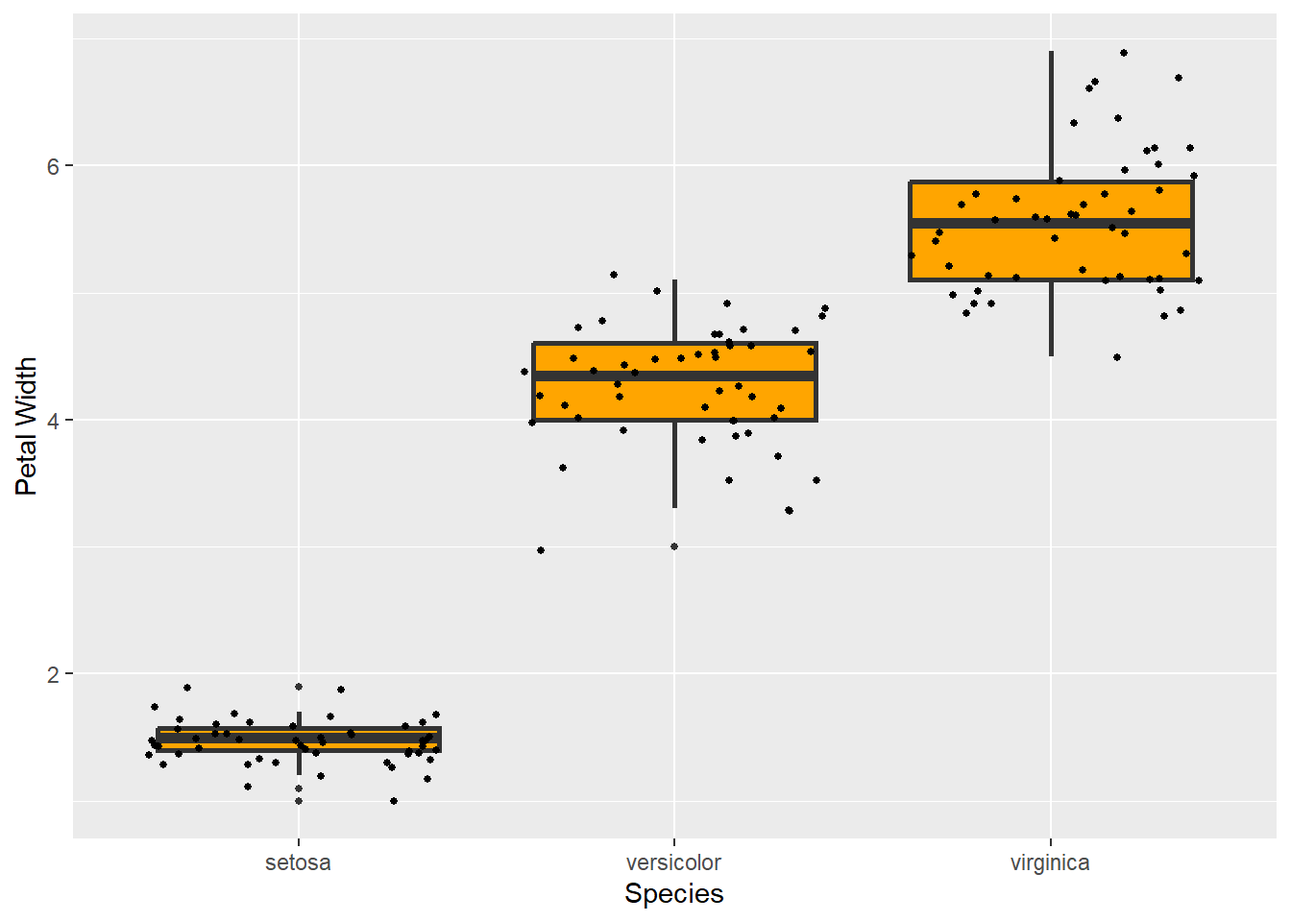
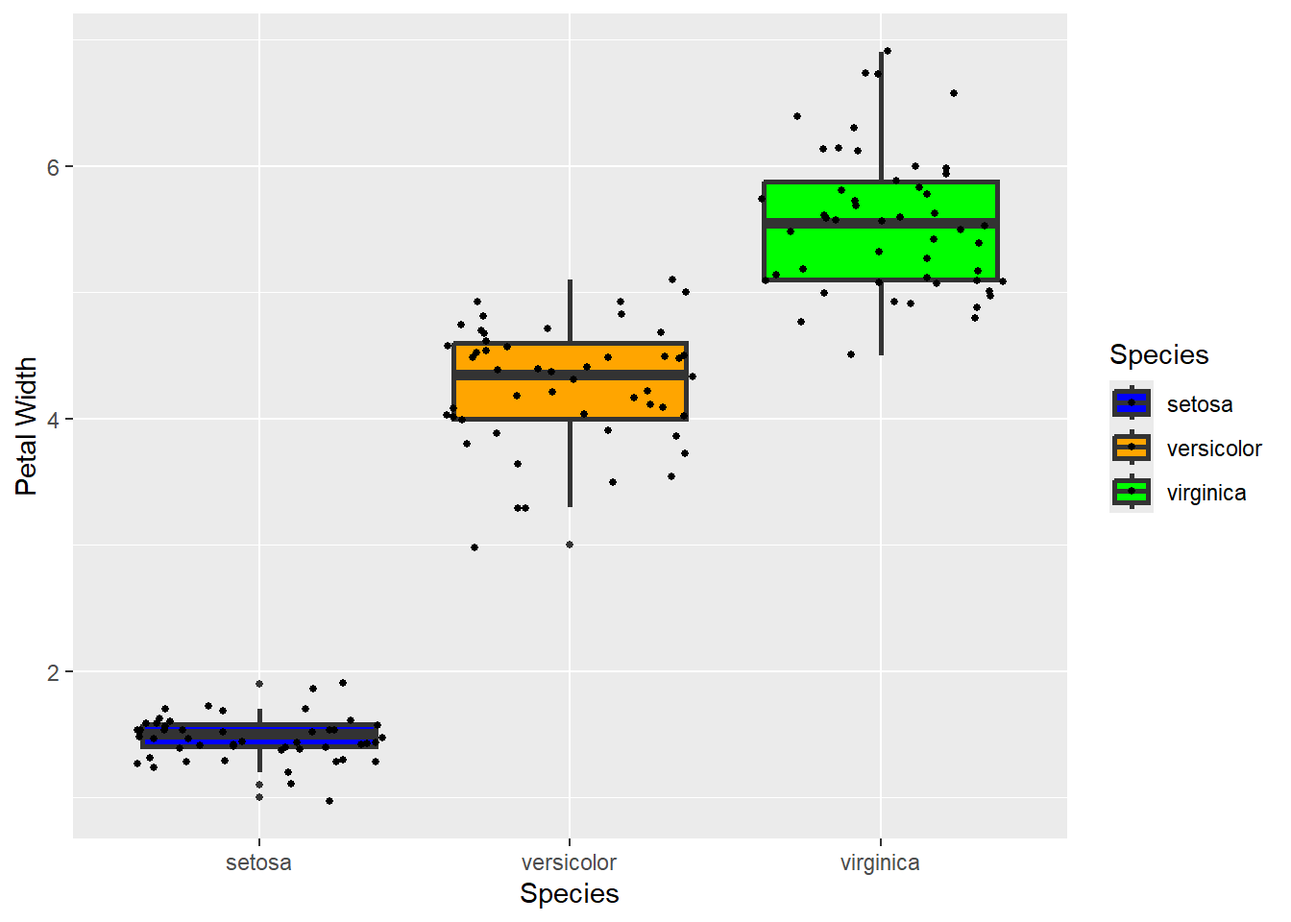
updates

diff --git a/docs/Homework_13.html b/docs/Homework_13.html
@@ -150,20 +150,9 @@ pre > code.sourceCode > span > a:first-child::before { text-decoration: underlin
    
   <ul>
   <li><a href="#bryan-wilcenski" id="toc-bryan-wilcenski" class="nav-link active" data-scroll-target="#bryan-wilcenski">Bryan Wilcenski</a></li>
-  <li><a href="#section" id="toc-section" class="nav-link" data-scroll-target="#section">4/15/2026</a>
-  <ul class="collapse">
-  <li><a href="#question-1does-any-pair-of-predictors-have-combined-effects-on-damage-likelihood-that-are-greater-than-their-individual-effects" id="toc-question-1does-any-pair-of-predictors-have-combined-effects-on-damage-likelihood-that-are-greater-than-their-individual-effects" class="nav-link" data-scroll-target="#question-1does-any-pair-of-predictors-have-combined-effects-on-damage-likelihood-that-are-greater-than-their-individual-effects">Question 1:Does any pair of predictors have combined effects on damage likelihood that are greater than their individual effects?</a></li>
-  </ul></li>
-  <li><a href="#note-this-question-and-approach-was-recommended-by-professor-burnham-after-discussing-my-challenges-with-developing-predictor-variables.-if-there-are-predictor-pairs-that-act-together-and-have-a-combined-effect-on-damage-probabilities-then-it-would-be-possible-to-use-feature-engineering-to-add-to-my-random-forest-or-catboost-models-to-better-account-for-variance.-use-of-a-llm-for-coding-assistance-was-also-recommended-given-the-number-of-possible-pairs-66." id="toc-note-this-question-and-approach-was-recommended-by-professor-burnham-after-discussing-my-challenges-with-developing-predictor-variables.-if-there-are-predictor-pairs-that-act-together-and-have-a-combined-effect-on-damage-probabilities-then-it-would-be-possible-to-use-feature-engineering-to-add-to-my-random-forest-or-catboost-models-to-better-account-for-variance.-use-of-a-llm-for-coding-assistance-was-also-recommended-given-the-number-of-possible-pairs-66." class="nav-link" data-scroll-target="#note-this-question-and-approach-was-recommended-by-professor-burnham-after-discussing-my-challenges-with-developing-predictor-variables.-if-there-are-predictor-pairs-that-act-together-and-have-a-combined-effect-on-damage-probabilities-then-it-would-be-possible-to-use-feature-engineering-to-add-to-my-random-forest-or-catboost-models-to-better-account-for-variance.-use-of-a-llm-for-coding-assistance-was-also-recommended-given-the-number-of-possible-pairs-66.">Note: This question and approach was recommended by Professor Burnham after discussing my challenges with developing predictor variables. If there are predictor pairs that act together and have a combined effect on damage probabilities, then it would be possible to use feature engineering to add to my random forest (or Catboost models) to better account for variance. Use of a LLM for coding assistance was also recommended given the number of possible pairs (66).</a></li>
-  <li><a href="#aic-was-used-to-compare-the-effects-of-all-interaction-terms-against-the-base-model-with-all-individual-predictors-but-no-interaction-terms-because-the-large-sample-size-resulted-in-almost-all-interactions-having-a-significant-p-value.-a-lower-aic-means-that-the-model-is-better-at-predicting-damages." id="toc-aic-was-used-to-compare-the-effects-of-all-interaction-terms-against-the-base-model-with-all-individual-predictors-but-no-interaction-terms-because-the-large-sample-size-resulted-in-almost-all-interactions-having-a-significant-p-value.-a-lower-aic-means-that-the-model-is-better-at-predicting-damages." class="nav-link" data-scroll-target="#aic-was-used-to-compare-the-effects-of-all-interaction-terms-against-the-base-model-with-all-individual-predictors-but-no-interaction-terms-because-the-large-sample-size-resulted-in-almost-all-interactions-having-a-significant-p-value.-a-lower-aic-means-that-the-model-is-better-at-predicting-damages.">AIC was used to compare the effects of all interaction terms against the base model with all individual predictors (but no interaction terms) because the large sample size resulted in almost all interactions having a significant p-value. A lower AIC means that the model is better at predicting damages.</a></li>
-  <li><a href="#according-to-burnham-and-anderson-2004" id="toc-according-to-burnham-and-anderson-2004" class="nav-link" data-scroll-target="#according-to-burnham-and-anderson-2004">According to Burnham and Anderson (2004):</a></li>
-  <li><a href="#some-simple-rules-of-thumb-are-often-useful-in-assessing-the-relative-merits-of-models-in-the-set-models-having-delta-i-2-have-substantial-support-evidence-those-in-which-4-delta-i-7-have-considerably-less-support-and-models-having-delta-i-10-have-essentailly-no-support." id="toc-some-simple-rules-of-thumb-are-often-useful-in-assessing-the-relative-merits-of-models-in-the-set-models-having-delta-i-2-have-substantial-support-evidence-those-in-which-4-delta-i-7-have-considerably-less-support-and-models-having-delta-i-10-have-essentailly-no-support." class="nav-link" data-scroll-target="#some-simple-rules-of-thumb-are-often-useful-in-assessing-the-relative-merits-of-models-in-the-set-models-having-delta-i-2-have-substantial-support-evidence-those-in-which-4-delta-i-7-have-considerably-less-support-and-models-having-delta-i-10-have-essentailly-no-support.">“Some simple rules of thumb are often useful in assessing the relative merits of models in the set: Models having [Delta] i ≤ 2 have substantial support (evidence), those in which 4 ≤ [Delta] i ≤ 7 have considerably less support, and models having [Delta] i &gt; 10 have essentailly no support”.</a></li>
-  <li><a href="#in-my-data-the-aic_improvement-calculation-uses-the-difference-between-the-base-model-aic-and-the-interaction-term-and-thus-a-higher-aic-improvement-means-that-the-interaction-term-improves-the-model." id="toc-in-my-data-the-aic_improvement-calculation-uses-the-difference-between-the-base-model-aic-and-the-interaction-term-and-thus-a-higher-aic-improvement-means-that-the-interaction-term-improves-the-model." class="nav-link" data-scroll-target="#in-my-data-the-aic_improvement-calculation-uses-the-difference-between-the-base-model-aic-and-the-interaction-term-and-thus-a-higher-aic-improvement-means-that-the-interaction-term-improves-the-model.">In my data, the AIC_Improvement calculation uses the difference between the base model AIC and the interaction term, and thus a higher AIC improvement means that the interaction term improves the model.</a></li>
-  <li><a href="#the-greatest-improvement-was-seen-when-there-was-a-k_finalhydrogroup-term-used-in-the-glm.-while-the-anova-result-shows-that-k_final-is-not-significant-on-its-own-lr-chisq-0.11-it-is-significant-depending-on-the-hydrogroup-it-is-in-lr-chisq-113.18.-while-other-predictors-are-powerful-on-their-own-e.g.-mean-precipitation-mean_topoconvergence_50m-topographic-convergence-etc.-this-finding-highlights-a-new-relationship.-the-boxplot-further-demonstrates-this-relationship-showing-that-on-on-poorly-drained-hydrogroup-soils-c-cd-a-higher-k_factor-is-associated-with-more-damage.-this-relationship-makes-sensestanding-water-accumulates-on-the-surface-resulting-in-roads-on-soils-vulnerable-to-sheet-flow-high-k_factor-experiencing-more-damages." id="toc-the-greatest-improvement-was-seen-when-there-was-a-k_finalhydrogroup-term-used-in-the-glm.-while-the-anova-result-shows-that-k_final-is-not-significant-on-its-own-lr-chisq-0.11-it-is-significant-depending-on-the-hydrogroup-it-is-in-lr-chisq-113.18.-while-other-predictors-are-powerful-on-their-own-e.g.-mean-precipitation-mean_topoconvergence_50m-topographic-convergence-etc.-this-finding-highlights-a-new-relationship.-the-boxplot-further-demonstrates-this-relationship-showing-that-on-on-poorly-drained-hydrogroup-soils-c-cd-a-higher-k_factor-is-associated-with-more-damage.-this-relationship-makes-sensestanding-water-accumulates-on-the-surface-resulting-in-roads-on-soils-vulnerable-to-sheet-flow-high-k_factor-experiencing-more-damages." class="nav-link" data-scroll-target="#the-greatest-improvement-was-seen-when-there-was-a-k_finalhydrogroup-term-used-in-the-glm.-while-the-anova-result-shows-that-k_final-is-not-significant-on-its-own-lr-chisq-0.11-it-is-significant-depending-on-the-hydrogroup-it-is-in-lr-chisq-113.18.-while-other-predictors-are-powerful-on-their-own-e.g.-mean-precipitation-mean_topoconvergence_50m-topographic-convergence-etc.-this-finding-highlights-a-new-relationship.-the-boxplot-further-demonstrates-this-relationship-showing-that-on-on-poorly-drained-hydrogroup-soils-c-cd-a-higher-k_factor-is-associated-with-more-damage.-this-relationship-makes-sensestanding-water-accumulates-on-the-surface-resulting-in-roads-on-soils-vulnerable-to-sheet-flow-high-k_factor-experiencing-more-damages.">The greatest improvement was seen when there was a K_final:HYDROGROUP term used in the GLM. While the ANOVA result shows that K_final is not significant on its own (LR Chisq = 0.11), it is significant depending on the HYDROGROUP it is in (LR Chisq = 113.18). While other predictors are powerful on their own, (e.g.&nbsp;MEAN (precipitation), Mean_TopoConvergence_50m (Topographic Convergence), etc.), this finding highlights a new relationship. The boxplot further demonstrates this relationship, showing that on on poorly-drained HYDROGROUP soils (C, C/D) a higher K_factor is associated with more damage. This relationship makes sense–standing water accumulates on the surface, resulting in roads on soils vulnerable to sheet flow (high K_factor) experiencing more damages.</a>
-  <ul class="collapse">
+  <li><a href="#section" id="toc-section" class="nav-link" data-scroll-target="#section">4/15/2026</a></li>
+  <li><a href="#question-1-does-any-pair-of-predictors-have-a-combined-effect-on-damage-likelihood-that-is-greater-than-their-individual-effects" id="toc-question-1-does-any-pair-of-predictors-have-a-combined-effect-on-damage-likelihood-that-is-greater-than-their-individual-effects" class="nav-link" data-scroll-target="#question-1-does-any-pair-of-predictors-have-a-combined-effect-on-damage-likelihood-that-is-greater-than-their-individual-effects">Question 1: Does any pair of predictors have a combined effect on damage likelihood that is greater than their individual effects?</a></li>
   <li><a href="#question-2-does-the-effect-of-precipitation-on-damage-probability-vary-across-parent-material-types" id="toc-question-2-does-the-effect-of-precipitation-on-damage-probability-vary-across-parent-material-types" class="nav-link" data-scroll-target="#question-2-does-the-effect-of-precipitation-on-damage-probability-vary-across-parent-material-types">Question 2: Does the effect of precipitation on damage probability vary across parent material types?</a></li>
-  </ul></li>
-  <li><a href="#this-is-a-binomial-glmm-with-random-effects-for-precipitation-by-parent-material-intended-to-determine-if-a-given-amount-of-precipitation-on-one-soil-parent-type-causes-a-different-probability-of-damages-on-another-soil-type.-while-some-soil-parent-materials-that-affect-the-probability-of-damage-notably-erosive-parent-materials-like-gf-and-a-the-overall-changes-are-small-variance-0.007-compared-to-the-the-average-effect-of-precipitation-mean-across-all-soils-estimate-0.369.-this-indicates-that-precipitations-effect-on-damage-probabilities-do-not-differ-significantly-across-parent-materials." id="toc-this-is-a-binomial-glmm-with-random-effects-for-precipitation-by-parent-material-intended-to-determine-if-a-given-amount-of-precipitation-on-one-soil-parent-type-causes-a-different-probability-of-damages-on-another-soil-type.-while-some-soil-parent-materials-that-affect-the-probability-of-damage-notably-erosive-parent-materials-like-gf-and-a-the-overall-changes-are-small-variance-0.007-compared-to-the-the-average-effect-of-precipitation-mean-across-all-soils-estimate-0.369.-this-indicates-that-precipitations-effect-on-damage-probabilities-do-not-differ-significantly-across-parent-materials." class="nav-link" data-scroll-target="#this-is-a-binomial-glmm-with-random-effects-for-precipitation-by-parent-material-intended-to-determine-if-a-given-amount-of-precipitation-on-one-soil-parent-type-causes-a-different-probability-of-damages-on-another-soil-type.-while-some-soil-parent-materials-that-affect-the-probability-of-damage-notably-erosive-parent-materials-like-gf-and-a-the-overall-changes-are-small-variance-0.007-compared-to-the-the-average-effect-of-precipitation-mean-across-all-soils-estimate-0.369.-this-indicates-that-precipitations-effect-on-damage-probabilities-do-not-differ-significantly-across-parent-materials.">This is a binomial GLMM with random effects for precipitation by parent material intended to determine if a given amount of precipitation on one soil parent type causes a different probability of damages on another soil type. While some soil parent materials that affect the probability of damage (notably: erosive parent materials like GF and A), the overall changes are small (Variance= 0.007) compared to the the average effect of precipitation (MEAN) across all soils (Estimate = 0.369). This indicates that precipitation’s effect on damage probabilities do not differ significantly across parent materials.</a></li>
   </ul>
 </nav>
     </div>
@@ -194,12 +183,10 @@ pre > code.sourceCode > span > a:first-child::before { text-decoration: underlin
 </section>
 <section id="section" class="level1">
 <h1>4/15/2026</h1>
-<section id="question-1does-any-pair-of-predictors-have-combined-effects-on-damage-likelihood-that-are-greater-than-their-individual-effects" class="level2">
-<h2 class="anchored" data-anchor-id="question-1does-any-pair-of-predictors-have-combined-effects-on-damage-likelihood-that-are-greater-than-their-individual-effects">Question 1:Does any pair of predictors have combined effects on damage likelihood that are greater than their individual effects?</h2>
 </section>
-</section>
-<section id="note-this-question-and-approach-was-recommended-by-professor-burnham-after-discussing-my-challenges-with-developing-predictor-variables.-if-there-are-predictor-pairs-that-act-together-and-have-a-combined-effect-on-damage-probabilities-then-it-would-be-possible-to-use-feature-engineering-to-add-to-my-random-forest-or-catboost-models-to-better-account-for-variance.-use-of-a-llm-for-coding-assistance-was-also-recommended-given-the-number-of-possible-pairs-66." class="level1">
-<h1>Note: This question and approach was recommended by Professor Burnham after discussing my challenges with developing predictor variables. If there are predictor pairs that act together and have a combined effect on damage probabilities, then it would be possible to use feature engineering to add to my random forest (or Catboost models) to better account for variance. Use of a LLM for coding assistance was also recommended given the number of possible pairs (66).</h1>
+<section id="question-1-does-any-pair-of-predictors-have-a-combined-effect-on-damage-likelihood-that-is-greater-than-their-individual-effects" class="level1">
+<h1>Question 1: Does any pair of predictors have a combined effect on damage likelihood that is greater than their individual effects?</h1>
+<p>Note: This question and approach was recommended by Professor Burnham after discussing my challenges with developing predictor variables. If there are predictor pairs that act together and have a combined effect on damage probabilities, then it would be possible to use feature engineering to add to my random forest (or Catboost models) to better account for variance. Use of a LLM for coding assistance was also recommended given the number of possible pairs (66).</p>
 <div class="cell">
 <div class="code-copy-outer-scaffold"><div class="sourceCode cell-code" id="cb1"><pre class="sourceCode r code-with-copy"><code class="sourceCode r"><span id="cb1-1"><a href="#cb1-1" aria-hidden="true" tabindex="-1"></a><span class="fu">library</span>(tidyverse)</span></code></pre></div><button title="Copy to Clipboard" class="code-copy-button"><i class="bi"></i></button></div>
 <div class="cell-output cell-output-stderr">
@@ -600,23 +587,13 @@ Signif. codes:  0 '***' 0.001 '**' 0.01 '*' 0.05 '.' 0.1 ' ' 1</code></pre>
 </div>
 </div>
 </div>
+<p>AIC was used to compare the effects of all interaction terms against the base model with all individual predictors (but no interaction terms) because the large sample size resulted in almost all interactions having a significant p-value. A lower AIC means that the model is better at predicting damages.</p>
+<p>According to Burnham and Anderson (2004): “Some simple rules of thumb are often useful in assessing the relative merits of models in the set: Models having [Delta AIC] ≤ 2 have substantial support (evidence), those in which 4 ≤ [Delta AIC] ≤ 7 have considerably less support, and models having [Delta AIC] &gt; 10 have essentailly no support”.</p>
+<p>In my data, the AIC_Improvement calculation uses the difference between the base model AIC and the interaction term, and thus a higher AIC improvement means that the interaction term improves the model.</p>
+<p>The greatest improvement was seen when there was a K_final:HYDROGROUP term used in the GLM. While the ANOVA result shows that K_final is not significant on its own (LR Chisq = 0.11), it is significant depending on the HYDROGROUP it is in (LR Chisq = 113.18). While other predictors are powerful on their own, (e.g.&nbsp;MEAN (precipitation), Mean_TopoConvergence_50m (Topographic Convergence), etc.), this finding highlights a new relationship. The boxplot further demonstrates this relationship, showing that on on poorly-drained HYDROGROUP soils (C, C/D) a higher K_factor is associated with more damage. This relationship makes sense–standing water accumulates on the surface, resulting in roads on soils vulnerable to sheet flow (high K_factor) experiencing more damages.</p>
 </section>
-<section id="aic-was-used-to-compare-the-effects-of-all-interaction-terms-against-the-base-model-with-all-individual-predictors-but-no-interaction-terms-because-the-large-sample-size-resulted-in-almost-all-interactions-having-a-significant-p-value.-a-lower-aic-means-that-the-model-is-better-at-predicting-damages." class="level1">
-<h1>AIC was used to compare the effects of all interaction terms against the base model with all individual predictors (but no interaction terms) because the large sample size resulted in almost all interactions having a significant p-value. A lower AIC means that the model is better at predicting damages.</h1>
-</section>
-<section id="according-to-burnham-and-anderson-2004" class="level1">
-<h1>According to Burnham and Anderson (2004):</h1>
-</section>
-<section id="some-simple-rules-of-thumb-are-often-useful-in-assessing-the-relative-merits-of-models-in-the-set-models-having-delta-i-2-have-substantial-support-evidence-those-in-which-4-delta-i-7-have-considerably-less-support-and-models-having-delta-i-10-have-essentailly-no-support." class="level1">
-<h1>“Some simple rules of thumb are often useful in assessing the relative merits of models in the set: Models having [Delta] i ≤ 2 have substantial support (evidence), those in which 4 ≤ [Delta] i ≤ 7 have considerably less support, and models having [Delta] i &gt; 10 have essentailly no support”.</h1>
-</section>
-<section id="in-my-data-the-aic_improvement-calculation-uses-the-difference-between-the-base-model-aic-and-the-interaction-term-and-thus-a-higher-aic-improvement-means-that-the-interaction-term-improves-the-model." class="level1">
-<h1>In my data, the AIC_Improvement calculation uses the difference between the base model AIC and the interaction term, and thus a higher AIC improvement means that the interaction term improves the model.</h1>
-</section>
-<section id="the-greatest-improvement-was-seen-when-there-was-a-k_finalhydrogroup-term-used-in-the-glm.-while-the-anova-result-shows-that-k_final-is-not-significant-on-its-own-lr-chisq-0.11-it-is-significant-depending-on-the-hydrogroup-it-is-in-lr-chisq-113.18.-while-other-predictors-are-powerful-on-their-own-e.g.-mean-precipitation-mean_topoconvergence_50m-topographic-convergence-etc.-this-finding-highlights-a-new-relationship.-the-boxplot-further-demonstrates-this-relationship-showing-that-on-on-poorly-drained-hydrogroup-soils-c-cd-a-higher-k_factor-is-associated-with-more-damage.-this-relationship-makes-sensestanding-water-accumulates-on-the-surface-resulting-in-roads-on-soils-vulnerable-to-sheet-flow-high-k_factor-experiencing-more-damages." class="level1">
-<h1>The greatest improvement was seen when there was a K_final:HYDROGROUP term used in the GLM. While the ANOVA result shows that K_final is not significant on its own (LR Chisq = 0.11), it is significant depending on the HYDROGROUP it is in (LR Chisq = 113.18). While other predictors are powerful on their own, (e.g.&nbsp;MEAN (precipitation), Mean_TopoConvergence_50m (Topographic Convergence), etc.), this finding highlights a new relationship. The boxplot further demonstrates this relationship, showing that on on poorly-drained HYDROGROUP soils (C, C/D) a higher K_factor is associated with more damage. This relationship makes sense–standing water accumulates on the surface, resulting in roads on soils vulnerable to sheet flow (high K_factor) experiencing more damages.</h1>
-<section id="question-2-does-the-effect-of-precipitation-on-damage-probability-vary-across-parent-material-types" class="level2">
-<h2 class="anchored" data-anchor-id="question-2-does-the-effect-of-precipitation-on-damage-probability-vary-across-parent-material-types">Question 2: Does the effect of precipitation on damage probability vary across parent material types?</h2>
+<section id="question-2-does-the-effect-of-precipitation-on-damage-probability-vary-across-parent-material-types" class="level1">
+<h1>Question 2: Does the effect of precipitation on damage probability vary across parent material types?</h1>
 <div class="cell">
 <div class="code-copy-outer-scaffold"><div class="sourceCode cell-code" id="cb25"><pre class="sourceCode r code-with-copy"><code class="sourceCode r"><span id="cb25-1"><a href="#cb25-1" aria-hidden="true" tabindex="-1"></a><span class="co"># Mixed model — random intercept and random slope for MEAN by PARENT</span></span>
 <span id="cb25-2"><a href="#cb25-2" aria-hidden="true" tabindex="-1"></a>mixed_model <span class="ot">&lt;-</span> <span class="fu">glmer</span>(</span>
@@ -643,36 +620,36 @@ Formula: damaged_bin ~ MEAN + MeanSlope30m + Mean_TopoConvergence_50m +
 
 Scaled residuals: 
    Min     1Q Median     3Q    Max 
--6.289 -0.088 -0.059 -0.039 48.982 
+-6.289 -0.088 -0.059 -0.039 48.985 
 
 Random effects:
  Groups Name        Variance Std.Dev. Corr
- PARENT (Intercept) 0.174073 0.41722      
-        MEAN        0.007336 0.08565  0.15
+ PARENT (Intercept) 0.174510 0.41774      
+        MEAN        0.007298 0.08543  0.15
 Number of obs: 215899, groups:  PARENT, 19
 
 Fixed effects:
                            Estimate Std. Error z value Pr(&gt;|z|)    
-(Intercept)              -12.589448   0.333966 -37.697  &lt; 2e-16 ***
-MEAN                       0.368997   0.037983   9.715  &lt; 2e-16 ***
-MeanSlope30m               0.103547   0.007308  14.169  &lt; 2e-16 ***
-Mean_TopoConvergence_50m   0.621363   0.033343  18.636  &lt; 2e-16 ***
-HYDROGROUPA/D             -1.079755   0.377110  -2.863 0.004193 ** 
-HYDROGROUPB                0.391747   0.125060   3.132 0.001733 ** 
-HYDROGROUPB/D             -0.473648   0.199867  -2.370 0.017797 *  
-HYDROGROUPC               -0.446423   0.135518  -3.294 0.000987 ***
-HYDROGROUPC/D             -0.846741   0.157698  -5.369 7.90e-08 ***
-HYDROGROUPD               -1.086660   0.157776  -6.887 5.68e-12 ***
-HYDROGROUPnot rated        0.800604   0.256544   3.121 0.001804 ** 
-HYDROGROUPUnknown        -10.218584 247.914451  -0.041 0.967122    
-HYDROGROUPwater           -0.495123   1.246738  -0.397 0.691268    
-PercentForestedLand        0.371552   0.090615   4.100 4.13e-05 ***
-Avg_Slope                  0.022570   0.006280   3.594 0.000326 ***
-K_final                    0.040633   0.246314   0.165 0.868972    
-Culvert_Count              0.372412   0.028030  13.286  &lt; 2e-16 ***
-StreamCrosYes              0.663681   0.068679   9.663  &lt; 2e-16 ***
-SurfaceUnknown            -0.521877   0.233890  -2.231 0.025662 *  
-SurfaceUnpaved             0.155582   0.069440   2.241 0.025057 *  
+(Intercept)              -12.590166   0.333995 -37.696  &lt; 2e-16 ***
+MEAN                       0.369228   0.037917   9.738  &lt; 2e-16 ***
+MeanSlope30m               0.103531   0.007308  14.167  &lt; 2e-16 ***
+Mean_TopoConvergence_50m   0.621343   0.033343  18.635  &lt; 2e-16 ***
+HYDROGROUPA/D             -1.079024   0.376997  -2.862 0.004208 ** 
+HYDROGROUPB                0.391458   0.125065   3.130 0.001748 ** 
+HYDROGROUPB/D             -0.473347   0.199860  -2.368 0.017865 *  
+HYDROGROUPC               -0.446534   0.135522  -3.295 0.000984 ***
+HYDROGROUPC/D             -0.846765   0.157702  -5.369 7.90e-08 ***
+HYDROGROUPD               -1.086776   0.157782  -6.888 5.66e-12 ***
+HYDROGROUPnot rated        0.800836   0.256535   3.122 0.001798 ** 
+HYDROGROUPUnknown        -10.028181 225.461709  -0.044 0.964523    
+HYDROGROUPwater           -0.496091   1.247132  -0.398 0.690789    
+PercentForestedLand        0.371671   0.090614   4.102 4.10e-05 ***
+Avg_Slope                  0.022568   0.006280   3.593 0.000326 ***
+K_final                    0.040204   0.246311   0.163 0.870342    
+Culvert_Count              0.372389   0.028030  13.285  &lt; 2e-16 ***
+StreamCrosYes              0.663678   0.068680   9.663  &lt; 2e-16 ***
+SurfaceUnknown            -0.521462   0.233850  -2.230 0.025754 *  
+SurfaceUnpaved             0.155641   0.069441   2.241 0.025005 *  
 ---
 Signif. codes:  0 '***' 0.001 '**' 0.01 '*' 0.05 '.' 0.1 ' ' 1</code></pre>
 </div>
@@ -688,16 +665,16 @@ Use print(x, correlation=TRUE)  or
 
 Response: damaged_bin
                             Chisq Df Pr(&gt;Chisq)    
-MEAN                      94.3766  1  &lt; 2.2e-16 ***
-MeanSlope30m             200.7709  1  &lt; 2.2e-16 ***
-Mean_TopoConvergence_50m 347.2827  1  &lt; 2.2e-16 ***
-HYDROGROUP               188.8972  9  &lt; 2.2e-16 ***
-PercentForestedLand       16.8129  1  4.125e-05 ***
-Avg_Slope                 12.9162  1  0.0003258 ***
-K_final                    0.0272  1  0.8689722    
-Culvert_Count            176.5246  1  &lt; 2.2e-16 ***
-StreamCros                93.3829  1  &lt; 2.2e-16 ***
-Surface                   12.9606  2  0.0015333 ** 
+MEAN                      94.8245  1  &lt; 2.2e-16 ***
+MeanSlope30m             200.6962  1  &lt; 2.2e-16 ***
+Mean_TopoConvergence_50m 347.2599  1  &lt; 2.2e-16 ***
+HYDROGROUP               188.8334  9  &lt; 2.2e-16 ***
+PercentForestedLand       16.8239  1  4.101e-05 ***
+Avg_Slope                 12.9128  1  0.0003263 ***
+K_final                    0.0266  1  0.8703418    
+Culvert_Count            176.4963  1  &lt; 2.2e-16 ***
+StreamCros                93.3814  1  &lt; 2.2e-16 ***
+Surface                   12.9581  2  0.0015353 ** 
 ---
 Signif. codes:  0 '***' 0.001 '**' 0.01 '*' 0.05 '.' 0.1 ' ' 1</code></pre>
 </div>
@@ -706,25 +683,25 @@ Signif. codes:  0 '***' 0.001 '**' 0.01 '*' 0.05 '.' 0.1 ' ' 1</code></pre>
 <span id="cb30-3"><a href="#cb30-3" aria-hidden="true" tabindex="-1"></a>re</span></code></pre></div><button title="Copy to Clipboard" class="code-copy-button"><i class="bi"></i></button></div>
 <div class="cell-output cell-output-stdout">
 <pre><code>           (Intercept)          MEAN   PARENT
-A         4.088781e-01  9.650102e-02        A
-DT        7.874926e-01  6.250350e-02       DT
-DT/GT     4.760835e-02  1.182403e-02    DT/GT
-DT/GT/GF -9.101679e-02 -2.020181e-02 DT/GT/GF
-DT/O     -2.462862e-03 -5.492875e-04     DT/O
-GF       -2.071030e-01  1.154114e-01       GF
-GF/GL    -1.876757e-01 -7.349659e-02    GF/GL
-GL        1.223327e-01  4.499689e-02       GL
-GL/GF    -1.137103e-01 -2.522248e-02    GL/GF
-GT        6.443471e-02  3.782864e-03       GT
-GT/DT    -2.758004e-01 -8.958784e-02    GT/DT
-GT/GF    -1.509874e-01 -3.275093e-02    GT/GF
-GT/GT_R  -9.585352e-02 -1.432666e-02  GT/GT_R
-M        -2.088722e-01 -4.444701e-02        M
-M/GF/GL  -8.580348e-02 -1.763995e-02  M/GF/GL
-O         2.303452e-01  5.166234e-02        O
-O/A      -3.871659e-02 -7.240693e-03      O/A
-Unknown  -3.029719e-06 -3.587246e-07  Unknown
-W         2.801505e-03 -1.783727e-02        W</code></pre>
+A         4.102598e-01  9.619982e-02        A
+DT        7.886088e-01  6.228084e-02       DT
+DT/GT     4.777846e-02  1.177594e-02    DT/GT
+DT/GT/GF -9.138625e-02 -2.014159e-02 DT/GT/GF
+DT/O     -2.473158e-03 -5.477017e-04     DT/O
+GF       -2.057405e-01  1.151090e-01       GF
+GF/GL    -1.886892e-01 -7.321105e-02    GF/GL
+GL        1.232379e-01  4.483417e-02       GL
+GL/GF    -1.141640e-01 -2.514563e-02    GL/GF
+GT        6.533831e-02  3.621197e-03       GT
+GT/DT    -2.770916e-01 -8.928540e-02    GT/DT
+GT/GF    -1.515777e-01 -3.265250e-02    GT/GF
+GT/GT_R  -9.612238e-02 -1.429279e-02  GT/GT_R
+M        -2.098226e-01 -4.438527e-02        M
+M/GF/GL  -8.614588e-02 -1.759201e-02  M/GF/GL
+O         2.310411e-01  5.145198e-02        O
+O/A      -3.888439e-02 -7.227099e-03      O/A
+Unknown  -3.674985e-06 -4.334207e-07  Unknown
+W         2.757021e-03 -1.772267e-02        W</code></pre>
 </div>
 <div class="code-copy-outer-scaffold"><div class="sourceCode cell-code" id="cb32"><pre class="sourceCode r code-with-copy"><code class="sourceCode r"><span id="cb32-1"><a href="#cb32-1" aria-hidden="true" tabindex="-1"></a><span class="fu">barplot</span>(re[,<span class="dv">2</span>][<span class="fu">order</span>(re[,<span class="dv">2</span>])],</span>
 <span id="cb32-2"><a href="#cb32-2" aria-hidden="true" tabindex="-1"></a>        <span class="at">names.arg =</span> re<span class="sc">$</span>PARENT[<span class="fu">order</span>(re[,<span class="dv">2</span>])], <span class="co">#allign orders with the order of the </span></span>
@@ -741,10 +718,7 @@ W         2.801505e-03 -1.783727e-02        W</code></pre>
 </div>
 </div>
 </div>
-</section>
-</section>
-<section id="this-is-a-binomial-glmm-with-random-effects-for-precipitation-by-parent-material-intended-to-determine-if-a-given-amount-of-precipitation-on-one-soil-parent-type-causes-a-different-probability-of-damages-on-another-soil-type.-while-some-soil-parent-materials-that-affect-the-probability-of-damage-notably-erosive-parent-materials-like-gf-and-a-the-overall-changes-are-small-variance-0.007-compared-to-the-the-average-effect-of-precipitation-mean-across-all-soils-estimate-0.369.-this-indicates-that-precipitations-effect-on-damage-probabilities-do-not-differ-significantly-across-parent-materials." class="level1">
-<h1>This is a binomial GLMM with random effects for precipitation by parent material intended to determine if a given amount of precipitation on one soil parent type causes a different probability of damages on another soil type. While some soil parent materials that affect the probability of damage (notably: erosive parent materials like GF and A), the overall changes are small (Variance= 0.007) compared to the the average effect of precipitation (MEAN) across all soils (Estimate = 0.369). This indicates that precipitation’s effect on damage probabilities do not differ significantly across parent materials.</h1>
+<p>This is a binomial GLMM with random effects for precipitation by parent material intended to determine if a given amount of precipitation on one soil parent type causes a different probability of damages on another soil type. While some soil parent materials that affect the probability of damage (notably: erosive parent materials like GF and A), the overall changes are small (Variance= 0.007) compared to the the average effect of precipitation (MEAN) across all soils (Estimate = 0.369). This indicates that precipitation’s effect on damage probabilities do not differ significantly across parent materials.</p>
 
 
 </section>

diff --git a/docs/Homework_09.html b/docs/Homework_09.html
@@ -221,15 +221,16 @@ pre > code.sourceCode > span > a:first-child::before { text-decoration: underlin
 <h2 class="anchored" data-anchor-id="question-2">Question 2</h2>
 <div class="cell">
 <div class="code-copy-outer-scaffold"><div class="sourceCode cell-code" id="cb3"><pre class="sourceCode r code-with-copy"><code class="sourceCode r"><span id="cb3-1"><a href="#cb3-1" aria-hidden="true" tabindex="-1"></a><span class="fu">library</span>(ggplot2)</span>
-<span id="cb3-2"><a href="#cb3-2" aria-hidden="true" tabindex="-1"></a>petal.box <span class="ot">&lt;-</span> <span class="fu">ggplot</span>(<span class="at">data =</span> iris, <span class="fu">aes</span>(<span class="at">x =</span> Species, <span class="at">y =</span> Petal.Length)) <span class="sc">+</span> </span>
-<span id="cb3-3"><a href="#cb3-3" aria-hidden="true" tabindex="-1"></a>  <span class="fu">geom_boxplot</span>(<span class="at">size=</span><span class="dv">1</span>, <span class="at">fill =</span> <span class="st">"orange"</span>)<span class="sc">+</span></span>
-<span id="cb3-4"><a href="#cb3-4" aria-hidden="true" tabindex="-1"></a>  <span class="fu">geom_jitter</span>(<span class="at">size=</span><span class="dv">1</span>) <span class="sc">+</span> </span>
-<span id="cb3-5"><a href="#cb3-5" aria-hidden="true" tabindex="-1"></a></span>
-<span id="cb3-6"><a href="#cb3-6" aria-hidden="true" tabindex="-1"></a>  <span class="fu">labs</span>(</span>
-<span id="cb3-7"><a href="#cb3-7" aria-hidden="true" tabindex="-1"></a>    <span class="at">x =</span> <span class="st">"Species"</span>,</span>
-<span id="cb3-8"><a href="#cb3-8" aria-hidden="true" tabindex="-1"></a>    <span class="at">y=</span> <span class="st">"Petal Width"</span></span>
-<span id="cb3-9"><a href="#cb3-9" aria-hidden="true" tabindex="-1"></a>  )</span>
-<span id="cb3-10"><a href="#cb3-10" aria-hidden="true" tabindex="-1"></a>petal.box</span></code></pre></div><button title="Copy to Clipboard" class="code-copy-button"><i class="bi"></i></button></div>
+<span id="cb3-2"><a href="#cb3-2" aria-hidden="true" tabindex="-1"></a>petal.box <span class="ot">&lt;-</span> <span class="fu">ggplot</span>(<span class="at">data =</span> iris, <span class="fu">aes</span>(<span class="at">x =</span> Species, <span class="at">y =</span> Petal.Length, <span class="at">fill =</span> Species)) <span class="sc">+</span> </span>
+<span id="cb3-3"><a href="#cb3-3" aria-hidden="true" tabindex="-1"></a>  <span class="fu">geom_boxplot</span>(<span class="at">size=</span><span class="dv">1</span>)<span class="sc">+</span></span>
+<span id="cb3-4"><a href="#cb3-4" aria-hidden="true" tabindex="-1"></a>  <span class="fu">scale_fill_manual</span>(<span class="at">values =</span> <span class="fu">c</span>(<span class="st">"setosa"</span> <span class="ot">=</span> <span class="st">"blue"</span>, <span class="st">"versicolor"</span> <span class="ot">=</span> <span class="st">"orange"</span>, <span class="st">"virginica"</span> <span class="ot">=</span> <span class="st">"green"</span>))<span class="sc">+</span></span>
+<span id="cb3-5"><a href="#cb3-5" aria-hidden="true" tabindex="-1"></a>  <span class="fu">geom_jitter</span>(<span class="at">size=</span><span class="dv">1</span>) <span class="sc">+</span> </span>
+<span id="cb3-6"><a href="#cb3-6" aria-hidden="true" tabindex="-1"></a></span>
+<span id="cb3-7"><a href="#cb3-7" aria-hidden="true" tabindex="-1"></a>  <span class="fu">labs</span>(</span>
+<span id="cb3-8"><a href="#cb3-8" aria-hidden="true" tabindex="-1"></a>    <span class="at">x =</span> <span class="st">"Species"</span>,</span>
+<span id="cb3-9"><a href="#cb3-9" aria-hidden="true" tabindex="-1"></a>    <span class="at">y=</span> <span class="st">"Petal Width"</span></span>
+<span id="cb3-10"><a href="#cb3-10" aria-hidden="true" tabindex="-1"></a>  )</span>
+<span id="cb3-11"><a href="#cb3-11" aria-hidden="true" tabindex="-1"></a>petal.box</span></code></pre></div><button title="Copy to Clipboard" class="code-copy-button"><i class="bi"></i></button></div>
 <div class="cell-output-display">
 <div>
 <figure class="figure">

diff --git a/lec_notes.txt/NetworkGraphTheory.md b/lec_notes.txt/NetworkGraphTheory.md
@@ -1,0 +1,57 @@
+Network/Graph Theory -- Lecture Notes (no coding)
+
+- Used to make covid predictions 
+
+Graph Theory 
+- nodes (dots), edges (lines between them)
+- can have same number of nodes and edges and be a different shape 
+- "edge distribution"
+- number of edges that each node has -- edge distribution (can represent with histogram)
+- 
+
+Synthetic Networks 
+- Erdos-Reign random Graph
+- edge dist is poisson distributed 
+
+- Barebasa Albert
+- found that internet is more power law distribution P(k) ~ k^-a
+- some nodes with a lot of edges, then most other nodes have low edges 
+- 
+
+Synthetic networks 
+- information" can be computational (NN), ideas, disease, etc
+- 
+
+Neural Networks 
+
+
+Graph object: 
+
+N= number of nodes 
+M- number of edges 
+Can have directed networks and weighted networks, and static normal networks 
+Degree -- distribution of edges for each node -- can take an 
+
+
+how to make networks (Lego Method)
+- Double (two nodes connected by one edge)
+- triplet (triangle across three nodes)
+- Quartets (rectangle "")
+
+Rules that goivern building 
+- Stay, go, random - use rules to randomly generate the structure
+
+- Then, add edges randomly 
+
+
+TOOLS FOR NETWORKS
+- Python -- NetworkX 
+- R --- IGraph
+- GGgraph
+
+Graph Theory and Networks
+- essentially bootstrapping evert tuime you synthetically generate networks
+
+
+
+
